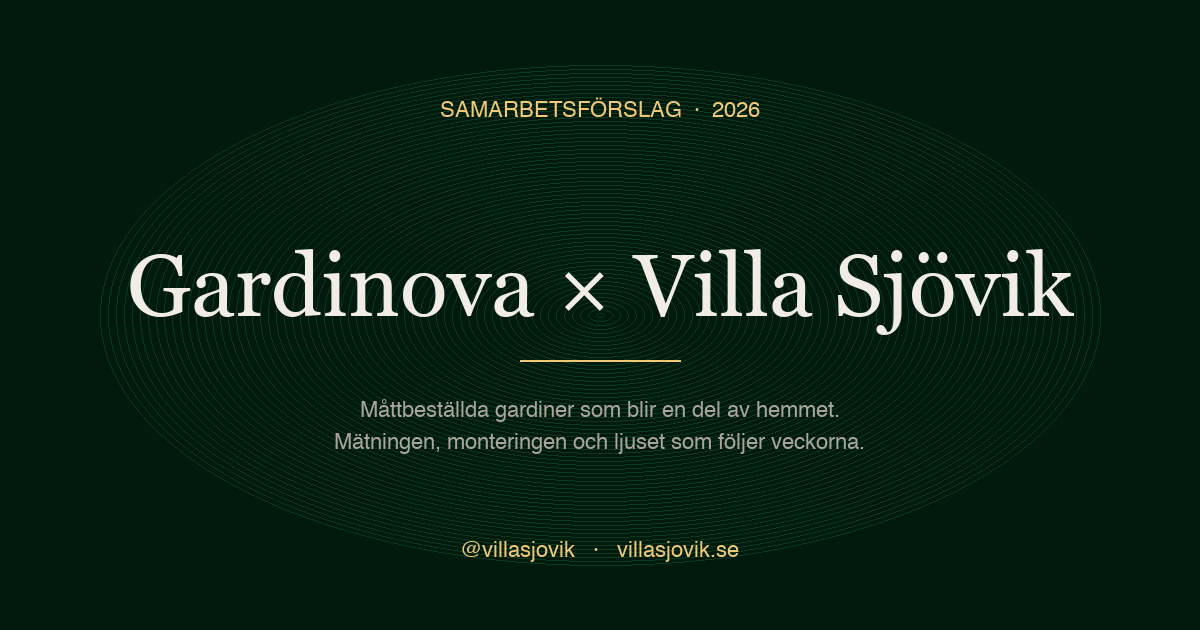
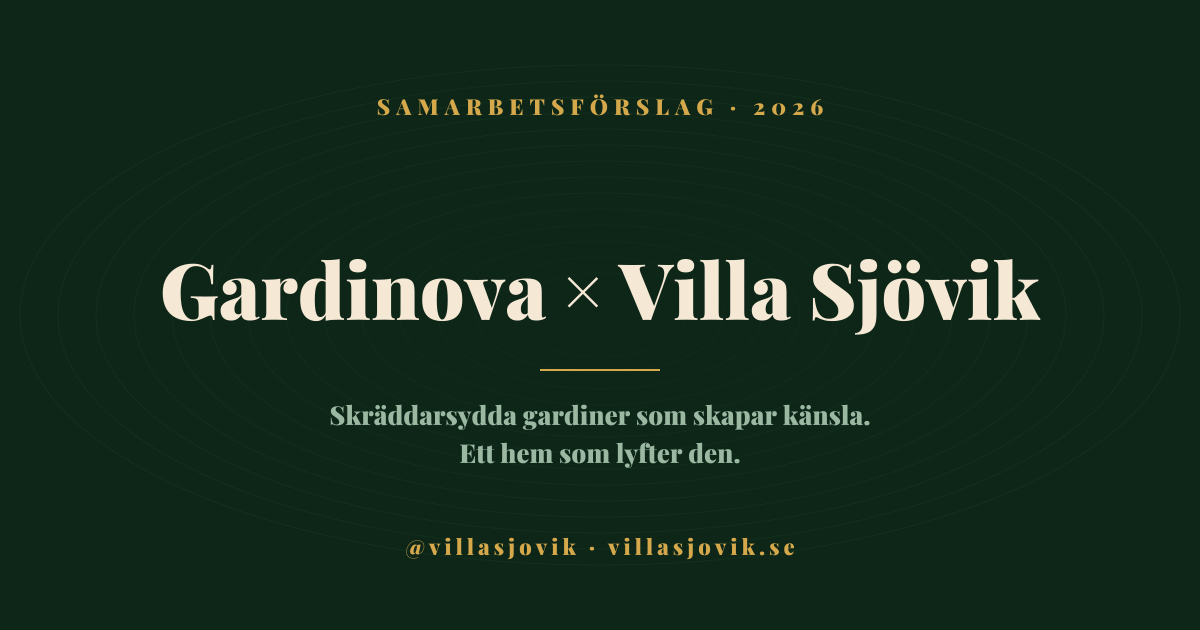
OG-bug: uppdatera meta-description + regenerera og-image.png med ny copy

diff --git a/index.html b/index.html
@@ -6,7 +6,7 @@
 <title>Gardinova × Villa Sjövik — Samarbetsförslag 2026</title>
 <link rel="icon" type="image/png" href="./gardinova-favicon.png"/>
 <meta property="og:title" content="Gardinova × Villa Sjövik — Samarbetsförslag 2026"/>
-<meta property="og:description" content="Måttbeställda gardiner som blir en del av hemmet. Mätningen, monteringen och ljuset som följer veckorna — i Villa Sjöviks autentiska miljöer."/>
+<meta property="og:description" content="Skräddarsydda gardiner som skapar känsla. Ett hem som lyfter den."/>
 <meta property="og:image" content="./og-image.png"/>
 <meta property="og:type" content="website"/>
 <link rel="preconnect" href="https://fonts.googleapis.com"/>
